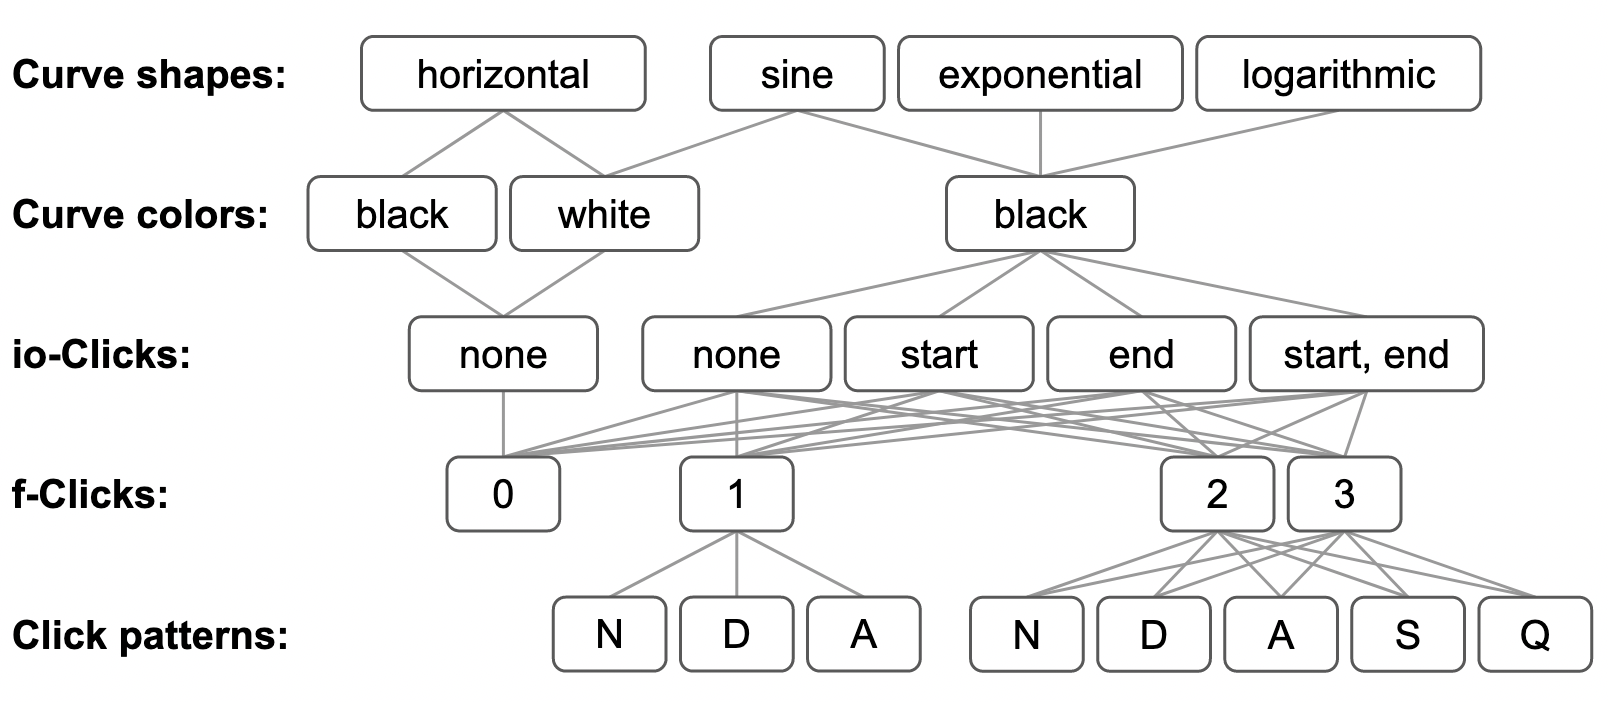
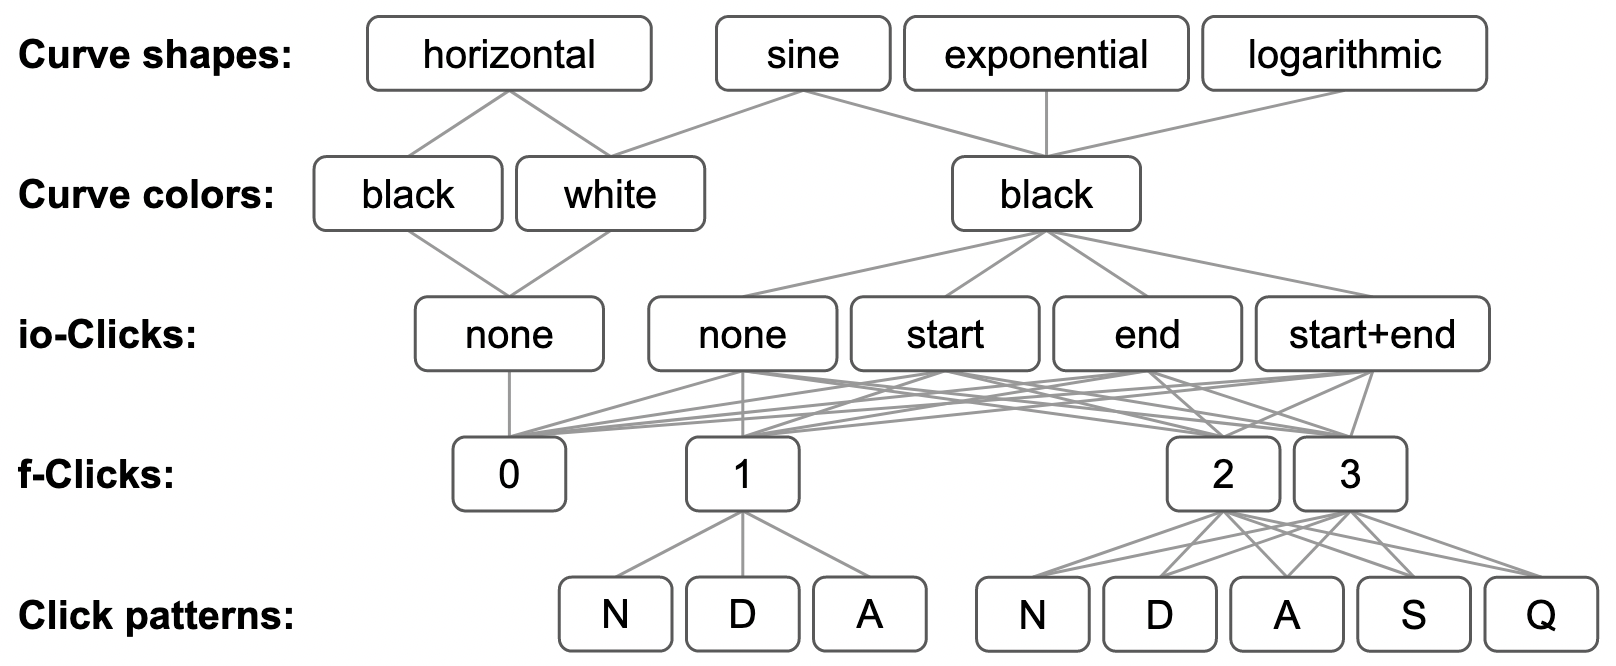
update files

diff --git a/projects/scratchbook/scratchbook.md b/projects/scratchbook/scratchbook.md
@@ -268,7 +268,7 @@ permalink: /scratchbook
       <div class="container-md p-2.5 bg-dark text-white">
         <h1>ScratchBook &#128221;&#127926;</h1>
         <p style="color: white; font-size: 16px;">A platform for browsing, composing and visualizing scratches in <a class="dark-link" href="https://en.wikipedia.org/wiki/Turntablist_transcription_methodology" target='_blank'>TTM-like notation.</a></p>
-        <p style="color: var(--red); font-size: 18px">&#9888; Loading the page takes time. Please be patient until you see the scratch plot.</p>
+        <p style="color: var(--red); font-size: 18px">&#9888; Loading the page takes time. Please wait until you see the scratch plot.</p>
       </div>
     </header>
     <br/>
@@ -322,7 +322,7 @@ permalink: /scratchbook
                 pys-onClick="plot" >
               </button> 
             </p>
-            <div id="session_output" style="padding-bottom: 10px"></div>
+            <div id="session_output" style="padding-bottom: 10px"><p style="font-size: 14px; color: var(--red)">Loading scratch plot...</p></div>
             <p id="session_message" style="font-size: 14px; color: var(--red)"></p>
             <div class="container" id="session_info">
               <div class="card" >
@@ -1488,15 +1488,15 @@ permalink: /scratchbook
                 <ul>
                   <li><strong>Curve shapes</strong> (horizontal, sine, exponential, logarithmic)</li>
                   <li><strong>Curve colors</strong> (black, white)</li>
-                  <li><strong>io-Clicks</strong> (in/out-clicks), i.e. clicks at the start and/or at the end of a of a scratch ([], [0], [1], [0,1]])</li>
-                  <li><strong>f-Clicks</strong> (flare-clicks), i.e. clicks somewhere in the middle of a scratch (0 - 3 clicks)</li>
+                  <li><strong>io-Clicks</strong> (in/out-clicks), i.e. clicks at the start and/or at the end of a of a scratch (none, start, end, start+end).</li>
+                  <li><strong>f-Clicks</strong> (flare-clicks), i.e. clicks somewhere in the middle of a scratch (0-9 clicks, but limited to 0-3 clicks in the element collection)</li>
                   <li><strong>Click patterns</strong> (normal, diminished, augmented, stretched, squeezed)</li>
                 </ul> 
                 <p>
                   <strong>Not all of these features should be combined with each other</strong>. For example, since white curves always represents silent record movement, they should  never have any clicks at all, and, to keep things simple, when they are not horizontal (1 Ghost-Hold), they should always be sine (1 Ghost). Also, click patterns only ever make sense when a scratch has at least one f-click, whereby stretched and squeezed patterns only make sense when at least two f-clicks are given.
                 </p>
                 <p>
-                  The following decision tree maps out <strong>ScratchBook's current rules of combination</strong>, which result in a total of <strong>171 elements</strong>:
+                  The following decision tree maps out <strong>ScratchBook's current rules of combination</strong> used to produce the <strong>element collection</strong> (see Library) with a total of <strong>171 elements</strong>:
                 </p>
                 <p>
                   <img 
